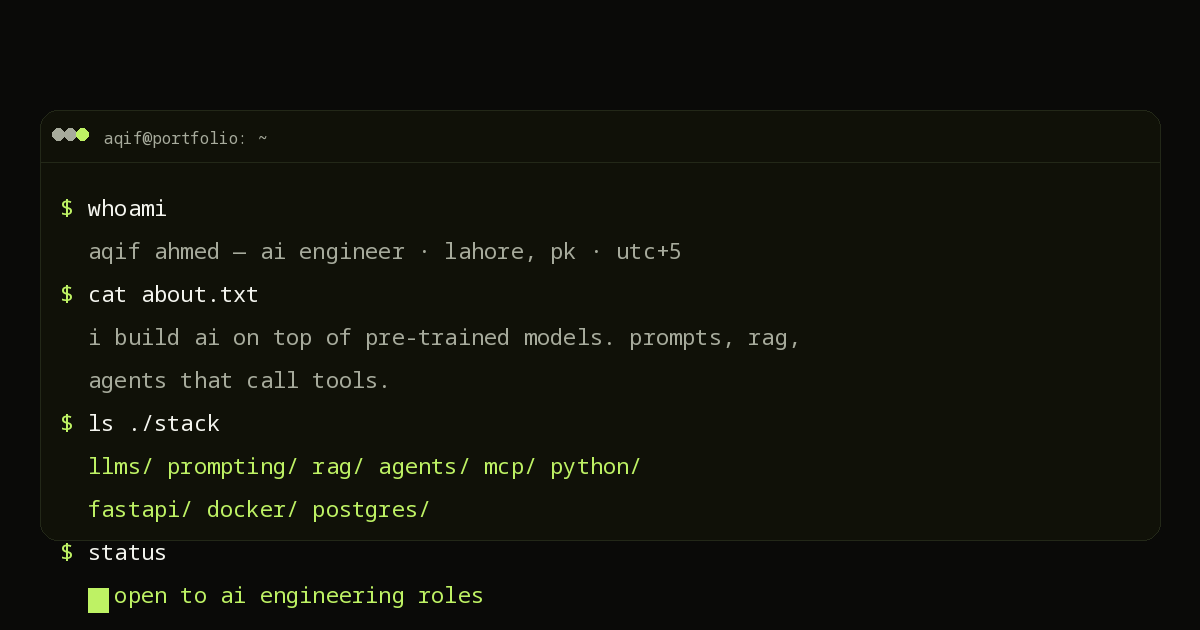
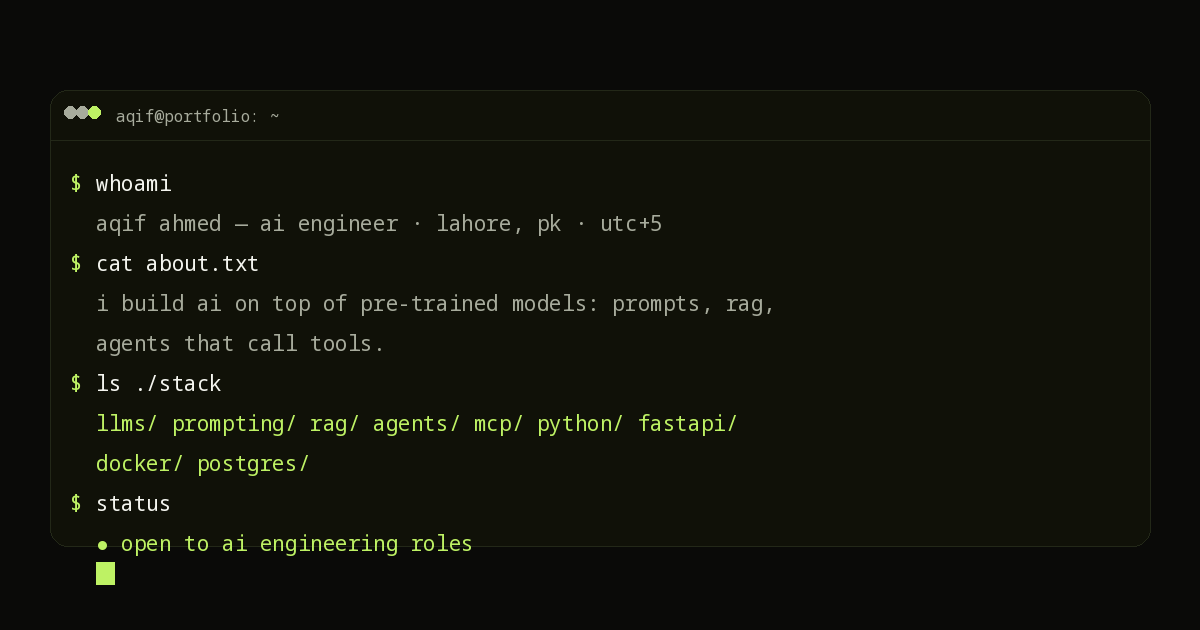
Revert portrait panel, fix OG term, trim building list
- Remove the portrait panel from the hero and its CSS
- Regenerate OG image so text fits inside the terminal boundary
- Building section now lists only InvisibleSearch

diff --git a/index.html b/index.html
@@ -62,8 +62,7 @@
 
   <!-- ================= HERO ================= -->
   <section class="hero">
-    <div class="hero__panels load-fade">
-      <div class="terminal" role="img" aria-label="Terminal window showing aqif ahmed's portfolio commands">
+    <div class="terminal load-fade" role="img" aria-label="Terminal window showing aqif ahmed's portfolio commands">
       <div class="terminal__bar">
         <span class="terminal__dot" aria-hidden="true"></span>
         <span class="terminal__dot" aria-hidden="true"></span>
@@ -81,16 +80,6 @@
         <p class="term-line out"><span class="hl">● open to ai engineering roles</span></p>
         <p class="term-line cmd"><span class="term-prompt">$</span> <span class="cmd-text"><span class="cursor" aria-hidden="true"></span></span></p>
       </div>
-    </div>
-    <div class="portrait" role="img" aria-label="Portrait of aqif ahmed">
-      <div class="terminal__bar">
-        <span class="terminal__dot" aria-hidden="true"></span>
-        <span class="terminal__dot" aria-hidden="true"></span>
-        <span class="terminal__dot" aria-hidden="true"></span>
-        <span class="terminal__title">aqif@profile: ~</span>
-      </div>
-      <img src="assets/profile.jpg" alt="Portrait of Aqif Ahmed" class="portrait__img" width="408" height="612" loading="lazy">
-    </div>
     </div>
     <div class="hero__cta load-fade">
       <a href="#now" class="btn btn--solid">$ cd ~/now</a>
@@ -125,7 +114,7 @@
       </div>
       <div class="file-row">
         <span class="file-key">building</span>
-        <span class="file-val">invisiblesearch (live github search) · net zero (expense app)</span>
+        <span class="file-val">invisiblesearch (live github search)</span>
       </div>
       <div class="file-row">
         <span class="file-key">learning</span>

diff --git a/css/style.css b/css/style.css
@@ -280,13 +280,6 @@ main { max-width: var(--container); margin: 0 auto; padding: 0 var(--pad); }
   pointer-events: none;
 }
 
-.hero__panels {
-  display: grid;
-  grid-template-columns: minmax(0, 1.6fr) minmax(0, 1fr);
-  gap: var(--s4);
-  align-items: center;
-}
-
 .terminal {
   max-width: 760px;
   width: 100%;
@@ -327,23 +320,6 @@ main { max-width: var(--container); margin: 0 auto; padding: 0 var(--pad); }
 .cmd-text { color: var(--ink); }
 .term-line.out { color: var(--ink-2); }
 .term-line .hl { color: var(--accent); font-weight: 500; }
-
-/* portrait panel — matches the terminal chrome */
-.portrait {
-  border: 1px solid var(--line);
-  border-radius: 12px;
-  overflow: hidden;
-  background: var(--bg-raise);
-  box-shadow: 0 20px 60px -30px color-mix(in srgb, var(--ink) 40%, transparent);
-  max-width: 320px;
-  width: 100%;
-  justify-self: end;
-}
-.portrait__img {
-  display: block;
-  width: 100%;
-  height: auto;
-}
 
 /* blinking cursor */
 .cursor {
@@ -616,8 +592,6 @@ main { max-width: var(--container); margin: 0 auto; padding: 0 var(--pad); }
   .mobile-menu { display: flex; }
 
   .hero { gap: var(--s3); }
-  .hero__panels { grid-template-columns: 1fr; gap: var(--s3); }
-  .portrait { justify-self: center; }
   .hero__cta { width: 100%; }
   .hero__cta .btn { flex: 1; }
 
